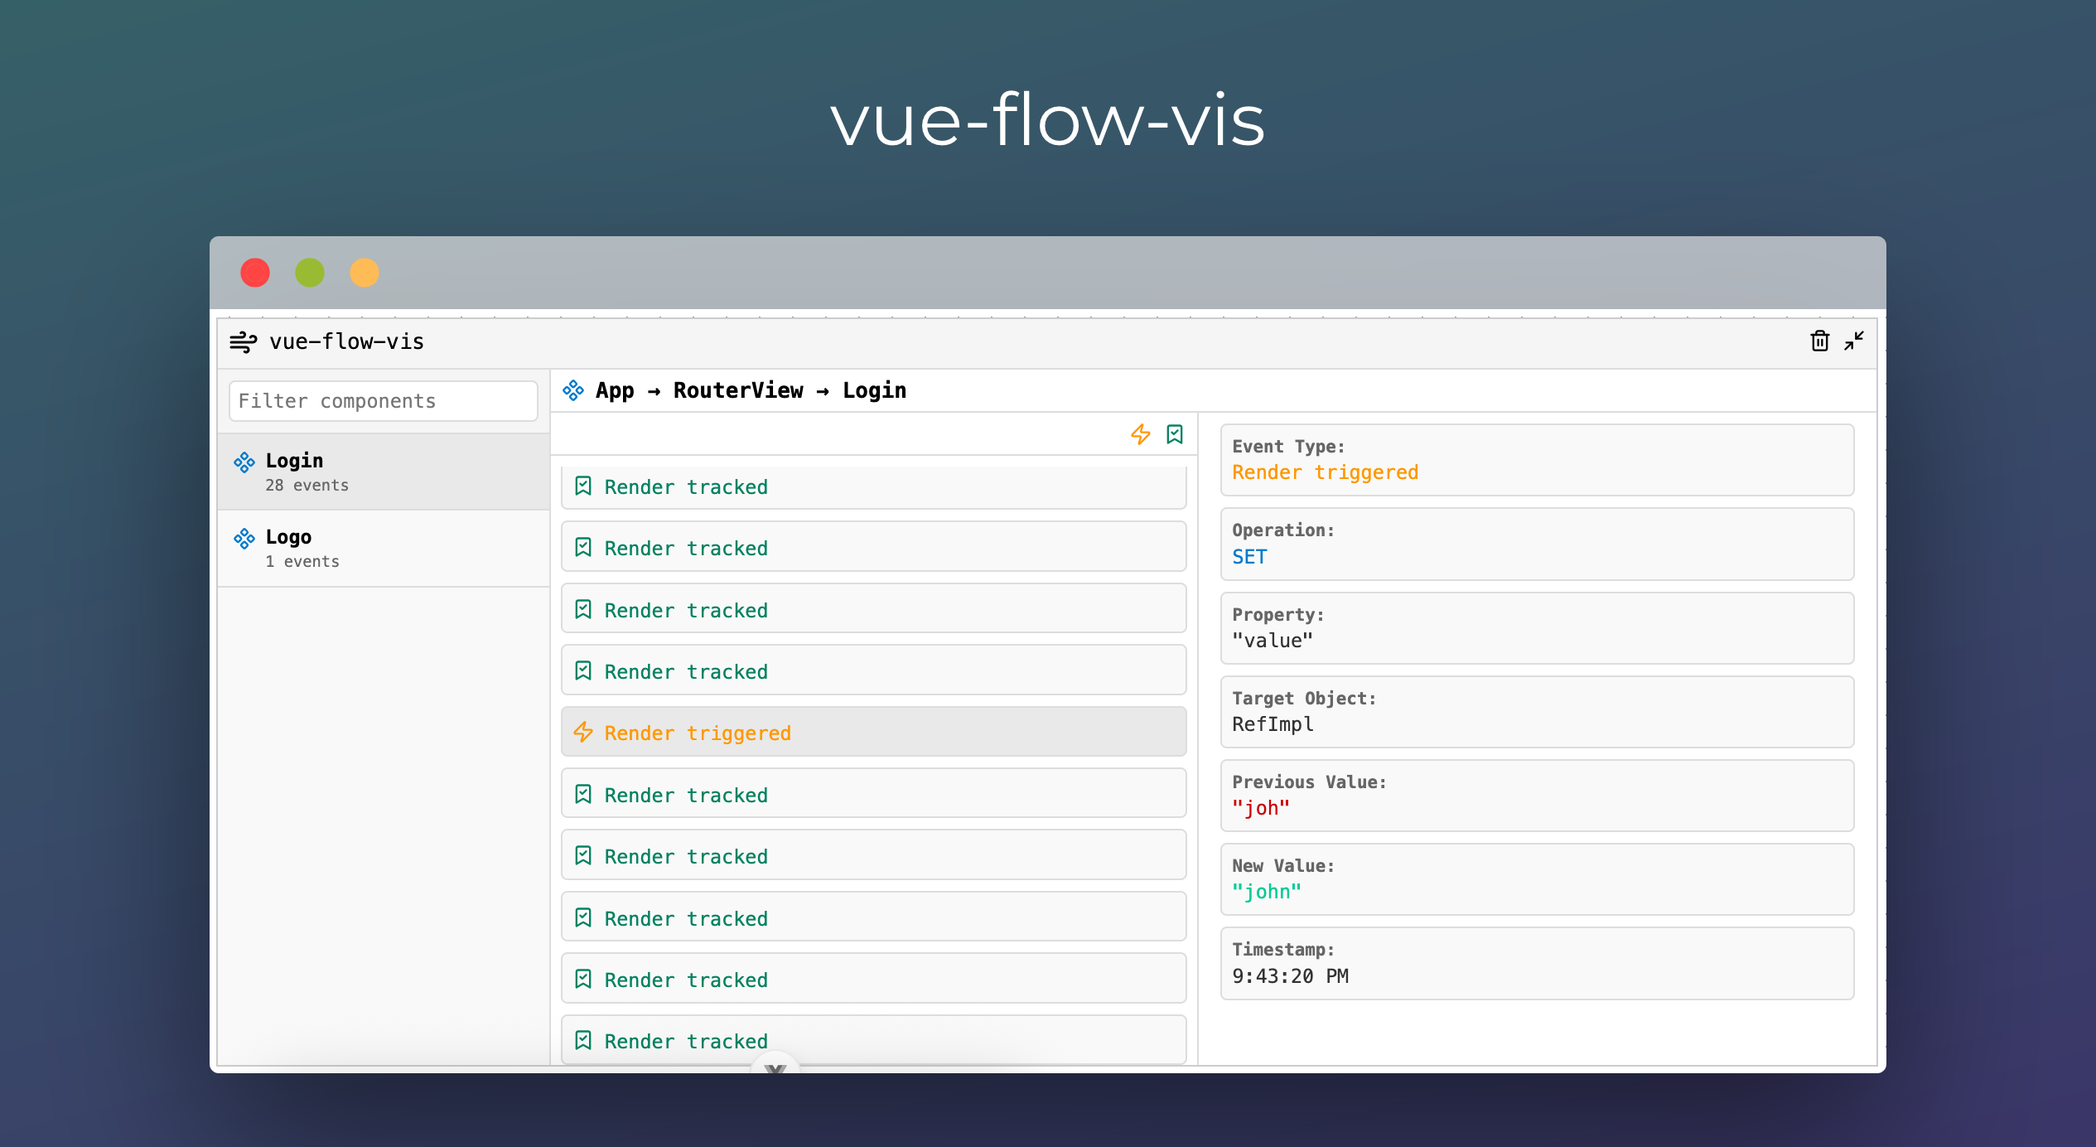
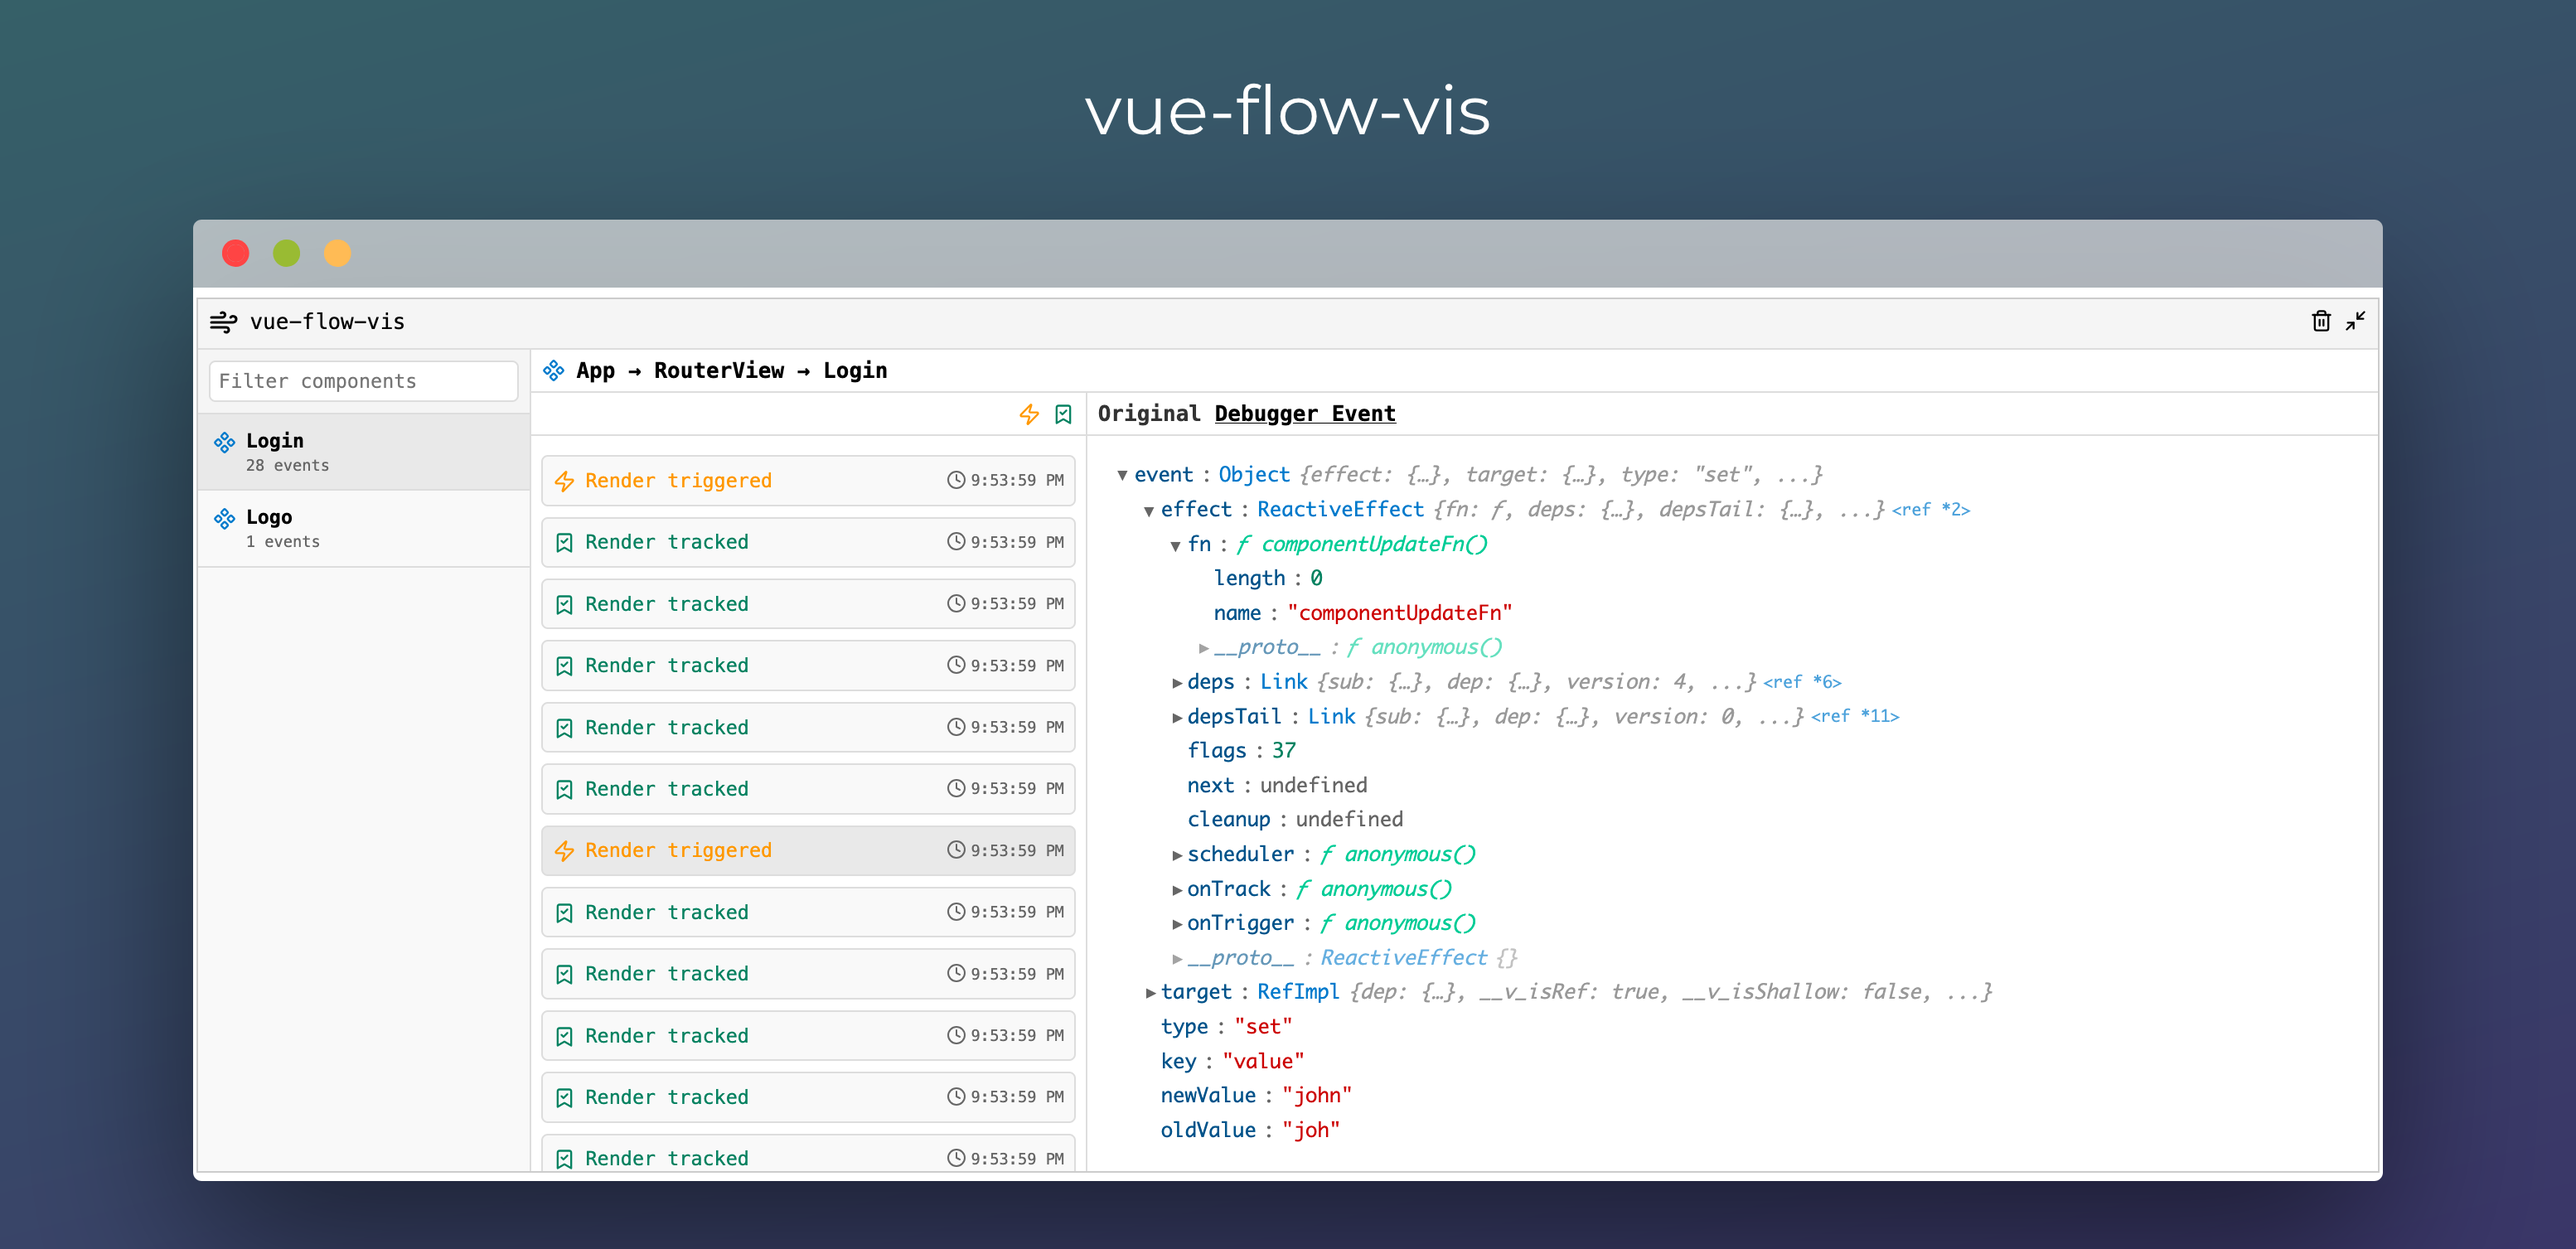
📚 README update

Changed region(s): [[0.0625, 0.1553, 0.9368, 0.9632], [0.4059, 0.0621, 0.6245, 0.1243]]

diff --git a/README.md b/README.md
@@ -19,7 +19,7 @@ Monitor which components re-render, what triggers the updates, and track reactiv
 
 ![image info](./static/README_screen.png)
 
-In this example, user typing `john` caused 28 render events in `Login` component to be triggered.
+In this example, user typing `john` caused 28 render events in `Login` component trigger.
 
 ## Installation
 
@@ -59,9 +59,9 @@ The plugin accepts a configuration object with the following options:
 type FlowVisOptions = {
   enabled?: boolean             // Enable/disable monitoring (default: true)
   logger?: 'console' | 'ui' | 'none'  // Logger type (default: 'ui')
-  logToTable?: boolean          // Use console.table for output (default: false)
   excludeComponents?: string[]  // Components to exclude from monitoring
   includeComponents?: string[]  // Only monitor these components (overrides exclude)
+  logToTable?: boolean          // Use console.table for output (default: false)
   batchLogs?: boolean           // Group console logs by component (default: true)
   batchWindow?: number          // Delay in ms before flushing batched logs (default: 500)
   onRenderTracked?: (data: RenderEventData) => void   // Custom callback for tracked events
@@ -79,7 +79,7 @@ The plugin provides three built-in logger types:
 app.use(FlowVisPlugin, { logger: 'ui' })
 ```
 Shows an in-page resizable panel with component event details.
-Offers best UX but event details rendering is still WIP.
+Offers best UX but takes up screen space.
 
 **Console Logger**
 ```typescript
